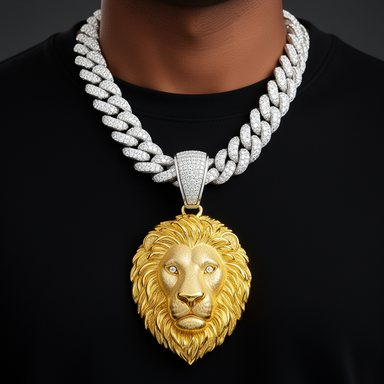
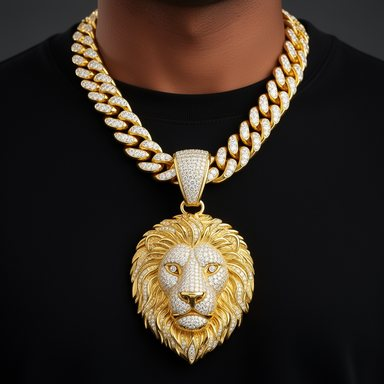
AI Influencer: chain metal picker (white, yellow, rose gold), DJ decks pendant, gold lion on gold chain, Peace Sign Slim natural shirt and waist
Claude-Session: https://claude.ai/code/session_01Pn4hNDRWRVhm438Rr9UBh8

Changed region(s): [[0.1875, 0.0, 0.8125, 0.9688]]

diff --git a/js/influencer.js b/js/influencer.js
@@ -139,14 +139,16 @@
       ["hat", "Hat", "", "a hat"], ["bag", "Bag", "", "a designer bag"], ["earmuffs", "Earmuffs", "", "fluffy oversized earmuffs"], ["shades", "Sport shades", "", "black wraparound sport sunglasses"]] },
     { id: "pendant", label: "Chain pendant", max: 1, visual: true, options: [
       ["none", "None", "", ""],
-      ["lion", "Gold lion", "", "a big solid yellow-gold lion head pendant with a detailed mane and diamond eyes, hanging from the center of a thick iced-out diamond cuban link chain on a big diamond bail, every diamond individually set and sparkling"],
-      ["cross", "Iced cross", "", "a big iced-out diamond cross pendant hanging from the center of a thick iced-out diamond cuban link chain on a big diamond bail, every diamond individually set and sparkling"],
-      ["hundred", "100 emoji", "", "a pendant shaped like the red 100 emoji, double underlined, paved in red rubies and white diamonds, hanging from the center of a thick iced-out diamond cuban link chain on a big diamond bail, every diamond individually set and sparkling"],
-      ["ak", "AK", "", "an iced-out diamond AK-47 rifle pendant hanging from the center of a thick iced-out diamond cuban link chain on a big diamond bail, every diamond individually set and sparkling"],
-      ["mic", "Microphone", "", "an iced-out diamond vintage microphone pendant hanging from the center of a thick iced-out diamond cuban link chain on a big diamond bail, every diamond individually set and sparkling"],
-      ["headphones", "Headphones", "", "an iced-out diamond headphones pendant hanging from the center of a thick iced-out diamond cuban link chain on a big diamond bail, every diamond individually set and sparkling"],
-      ["turntables", "Turntables", "", "an iced-out diamond DJ turntable pendant with a black vinyl record, hanging from the center of a thick iced-out diamond cuban link chain on a big diamond bail, every diamond individually set and sparkling"],
-      ["name", "Name pendant", "", "NAME"]] }
+      ["lion", "Gold lion", "", "a big solid {M} lion head pendant with a detailed mane and diamond eyes, hanging from the center of a thick iced-out {M} cuban link chain on a big diamond bail, every diamond individually set and sparkling", "gold"],
+      ["cross", "Iced cross", "", "a big iced-out {M} diamond cross pendant hanging from the center of a thick iced-out {M} cuban link chain on a big diamond bail, every diamond individually set and sparkling"],
+      ["hundred", "100 emoji", "", "a pendant shaped like the red 100 emoji, double underlined, paved in red rubies and white diamonds set in {M}, hanging from the center of a thick iced-out {M} cuban link chain on a big diamond bail, every diamond individually set and sparkling"],
+      ["ak", "AK", "", "an iced-out {M} diamond AK-47 rifle pendant hanging from the center of a thick iced-out {M} cuban link chain on a big diamond bail, every diamond individually set and sparkling"],
+      ["mic", "Microphone", "", "an iced-out {M} diamond vintage microphone pendant hanging from the center of a thick iced-out {M} cuban link chain on a big diamond bail, every diamond individually set and sparkling"],
+      ["headphones", "Headphones", "", "an iced-out {M} diamond over-ear headphones pendant hanging from the center of a thick iced-out {M} cuban link chain on a big diamond bail, every diamond individually set and sparkling"],
+      ["turntables", "DJ decks", "", "an iced-out {M} DJ setup pendant: two turntables side by side with black vinyl records and tonearms and a DJ mixer with knobs and faders in the middle, all paved in diamonds, hanging from the center of a thick iced-out {M} cuban link chain on a big diamond bail, every diamond individually set and sparkling"],
+      ["name", "Name pendant", "", "NAME"]] },
+    { id: "metal", label: "Chain metal", max: 1, visual: true, options: [
+      ["silver", "White gold", "", "white gold"], ["gold", "Yellow gold", "", "yellow gold"], ["rose", "Rose gold", "", "rose gold"]] }
   ];
 
   var VIEWS = {
@@ -453,9 +455,16 @@
   function phrase(gid, oid) {
     if (gid === "pendant" && oid === "name") {
       var nm = (state.pendantName || $("infName").value || "ICY").replace(/["<>]/g, "").trim().slice(0, 14) || "ICY";
-      return 'a big custom name pendant spelling "' + nm + '" in bold cursive script letters, white gold paved in diamonds, hanging from a thick iced-out diamond cuban link chain on a big diamond bail, every diamond sparkling';
+      return 'a big custom name pendant spelling "' + nm + '" in bold cursive script letters, ' + metalWord() + ' paved in diamonds, hanging from a thick iced-out ' + metalWord() + ' cuban link chain on a big diamond bail, every diamond sparkling';
     }
-    var g = groupById(gid), o = g && optOf(g, oid); return o ? o[3] : "";
+    var g = groupById(gid), o = g && optOf(g, oid);
+    if (!o) return "";
+    if (gid === "pendant") return o[3].replace(/\{M\}/g, metalWord(o[4]));
+    return o[3];
+  }
+  function metalWord(def) {
+    var m = (state.traits.metal || [])[0] || def || "silver";
+    return { silver: "white gold", gold: "yellow gold", rose: "rose gold" }[m] || "white gold";
   }
   function pickOne(gid) { var v = state.traits[gid]; return v && v.length ? phrase(gid, v[0]) : ""; }
   function pickAll(gid) { return (state.traits[gid] || []).map(function (o) { return phrase(gid, o); }).filter(Boolean); }
@@ -509,6 +518,7 @@
     var acc = pickAll("accessories");
     var pend = pickOne("pendant");
     if (pend) acc = acc.filter(function (a) { return a !== "an iced-out diamond chain"; }).concat([pend]);
+    else if ((state.traits.metal || [])[0]) acc = acc.map(function (a) { return a === "an iced-out diamond chain" ? "an iced-out " + metalWord() + " diamond cuban link chain" : a; });
     if (acc.length) parts.push("accessorized with " + acc.join(", "));
     if (extraRaw && !lead) parts.push(extraRaw);
     parts.push(V.tail);
